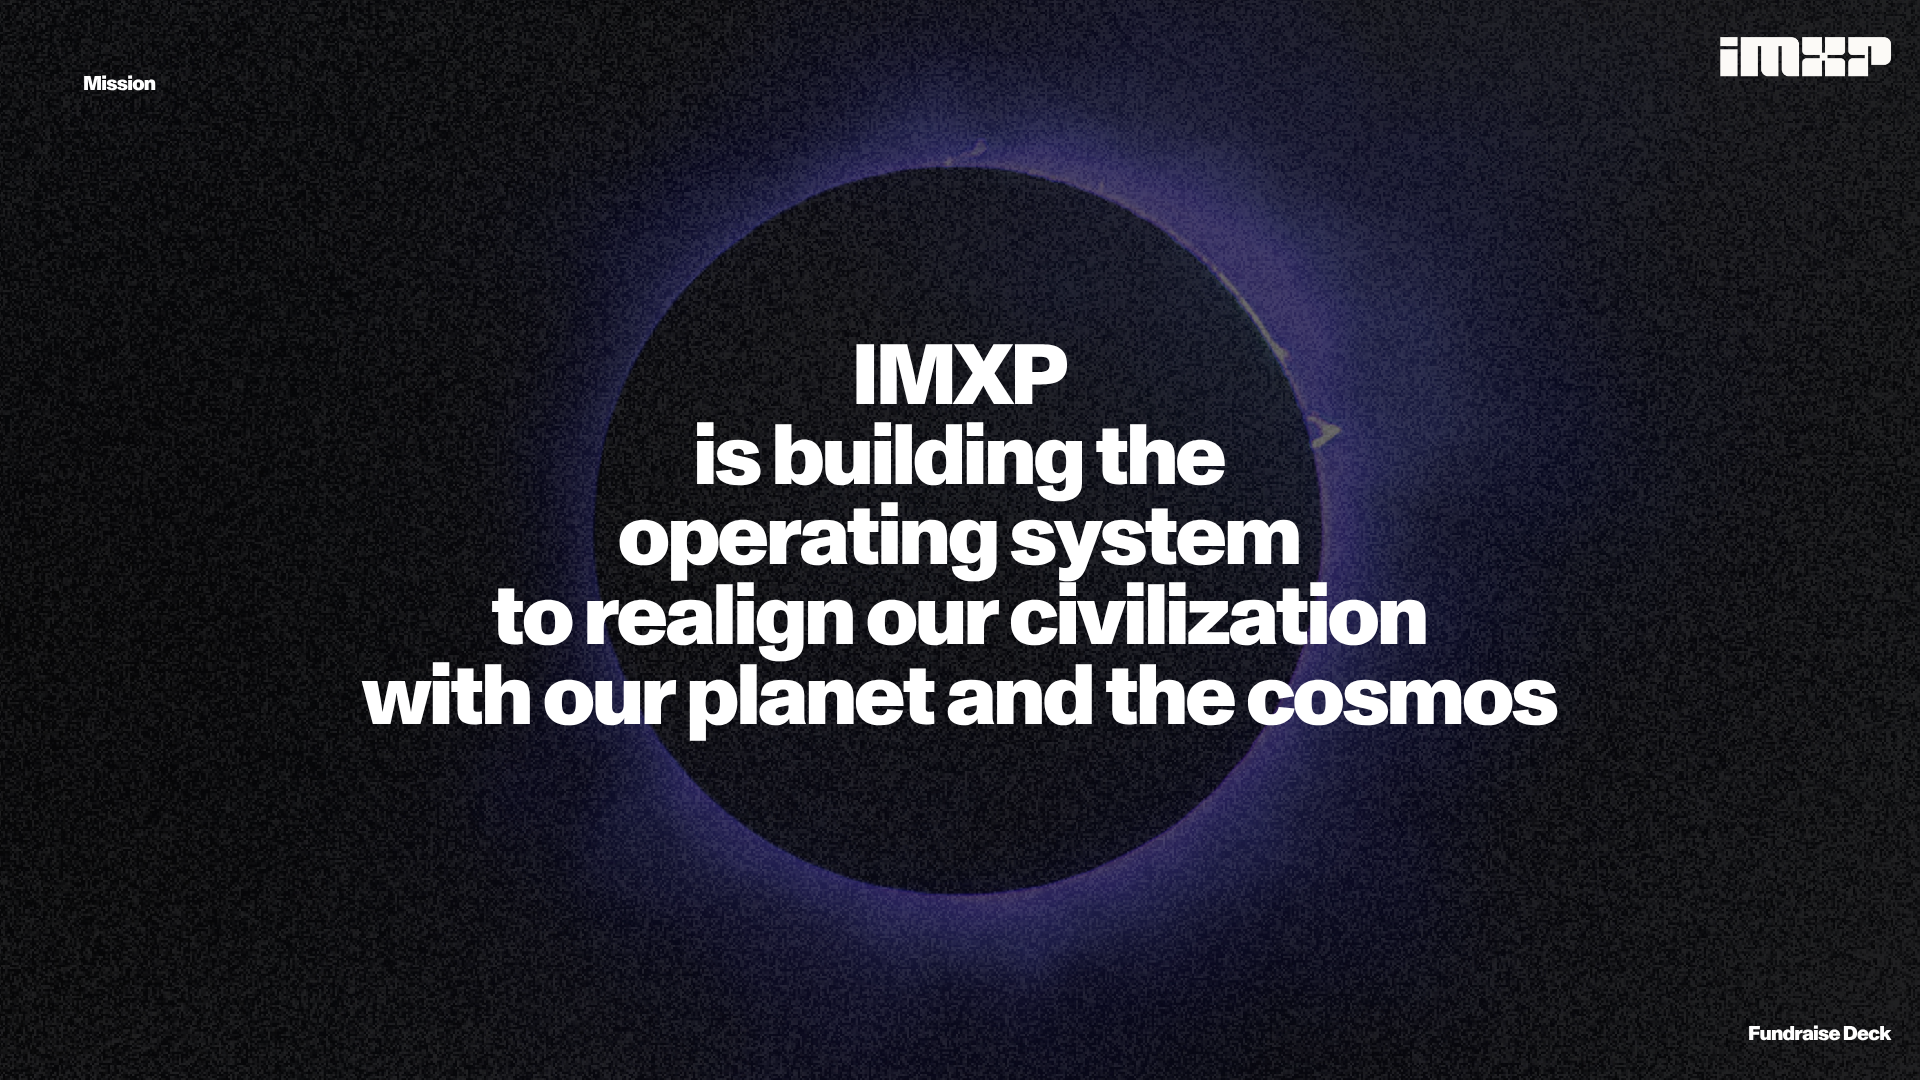
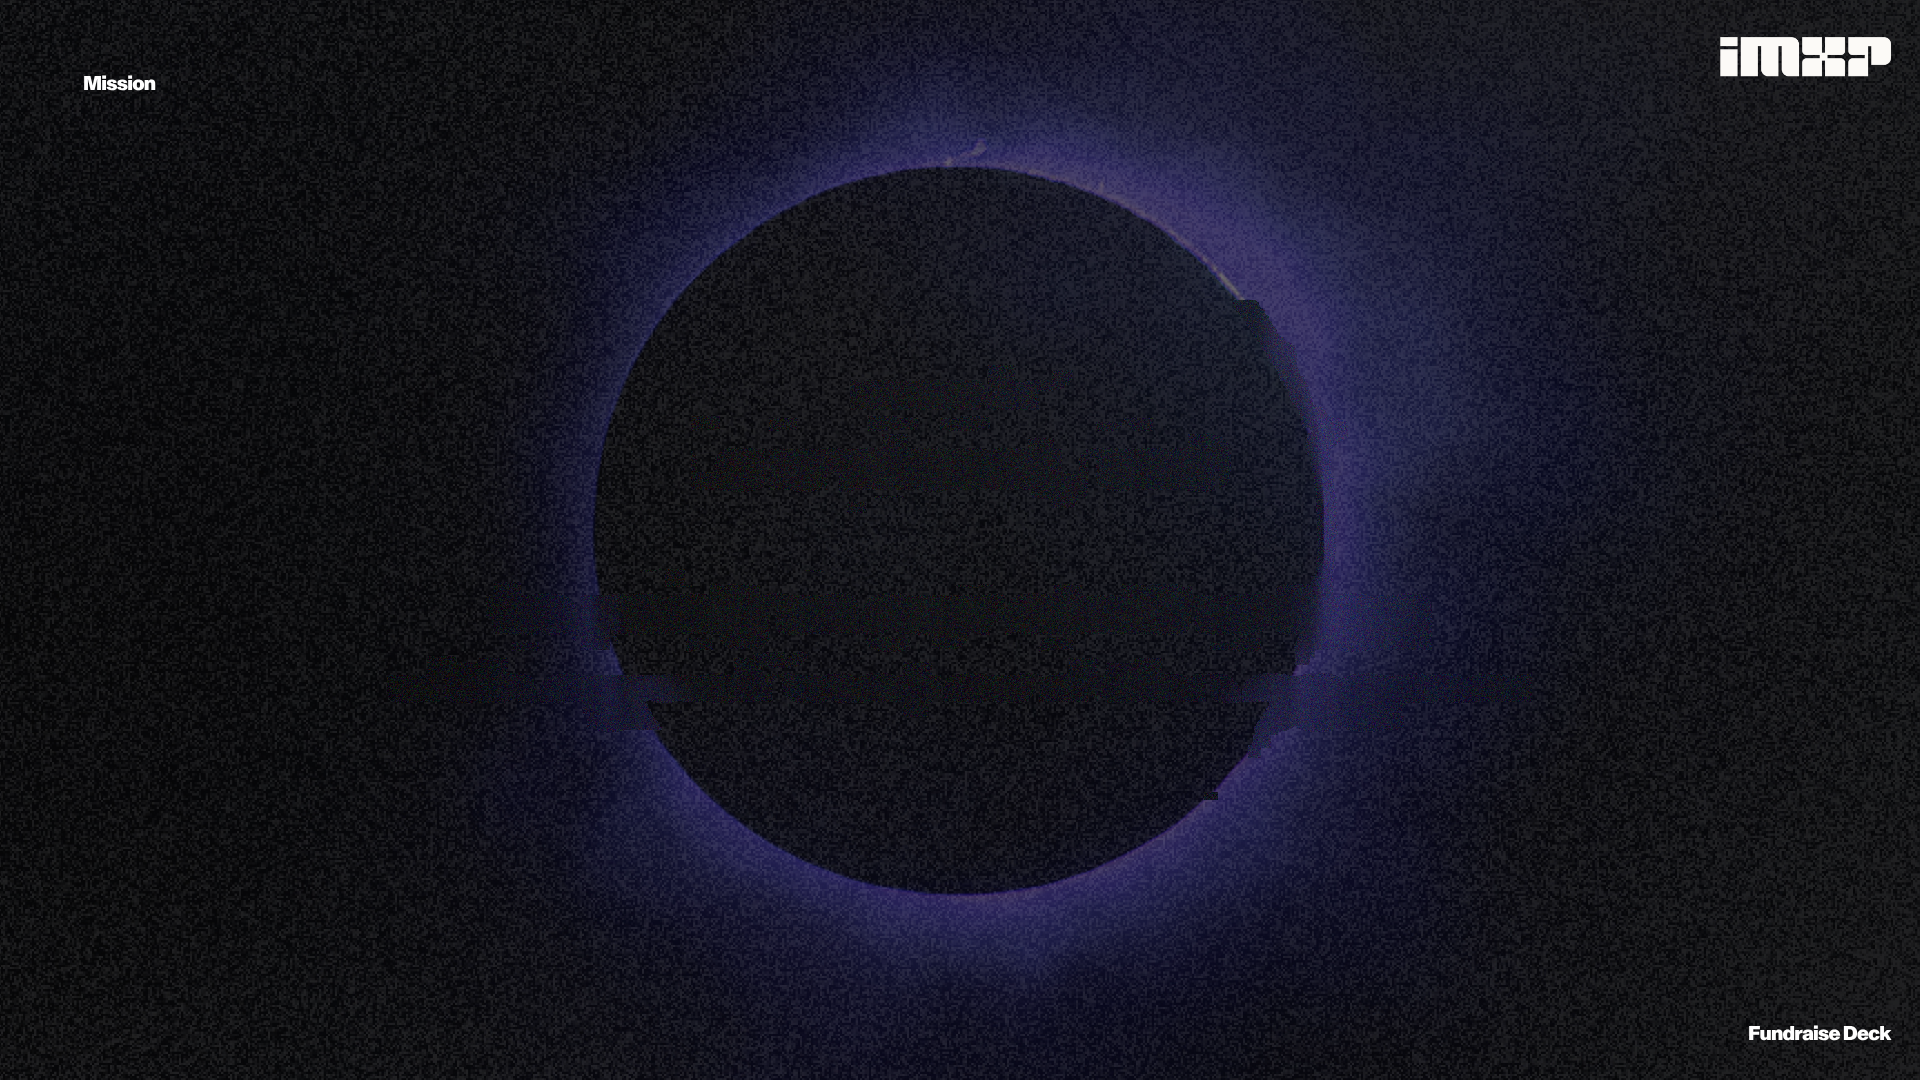
Slide 2: clean rebuild - text-free plates via cross-slide borrow, statement vertically centered, no runtime inpaint

Changed region(s): [[0.1875, 0.275, 0.8125, 0.7028]]

diff --git a/sheet-sync/render_content_slide.py b/sheet-sync/render_content_slide.py
@@ -38,8 +38,8 @@ INK = (12, 12, 15)
 #  bullets: prefix wrapped lines from '- ' items with a dot
 ZONES = {
     2: [
-        dict(name='statement', box=(320, 330, 1600, 760), fill='inpaint',
-             sample=None, fields=['headline'],
+        dict(name='statement', box=(320, 330, 1600, 760), fill='none',
+             sample=None, fields=['headline'], valign='middle',
              font=('archivo-3.ttf', 64), align='center', color=WHITE, leading=1.22),
     ],
     3: [
@@ -60,8 +60,8 @@ ZONES = {
              font=('archivo-3.ttf', 33), align='left', color=INK, leading=1.15),
     ],
     13: [
-        dict(name='statement', box=(170, 330, 1750, 770), fill='inpaint',
-             sample=None, fields=['headline', 'body'],
+        dict(name='statement', box=(170, 330, 1750, 770), fill='none',
+             sample=None, fields=['headline', 'body'], valign='middle',
              font=('archivo-3.ttf', 52), align='center', color=WHITE,
              leading=1.25, para_gap=1.2),
     ],
@@ -95,6 +95,8 @@ def F(file, size):
 def clear_zone(img, z):
     x0, y0, x1, y1 = z['box']
     a = np.asarray(img).astype(np.float32)
+    if z['fill'] == 'none':
+        return img
     if z['fill'] == 'flat':
         sx0, sy0, sx1, sy1 = z['sample']
         strip = a[sy0:sy1, sx0:sx1].reshape(-1, 3)
@@ -160,6 +162,8 @@ def typeset(img, z, text):
             break
         size -= 2
     y = y0
+    if z.get('valign') == 'middle':
+        y = y0 + max(0, ((y1 - y0) - total) // 2)
     for ln in lines:
         if ln == '':
             y += para_gap
